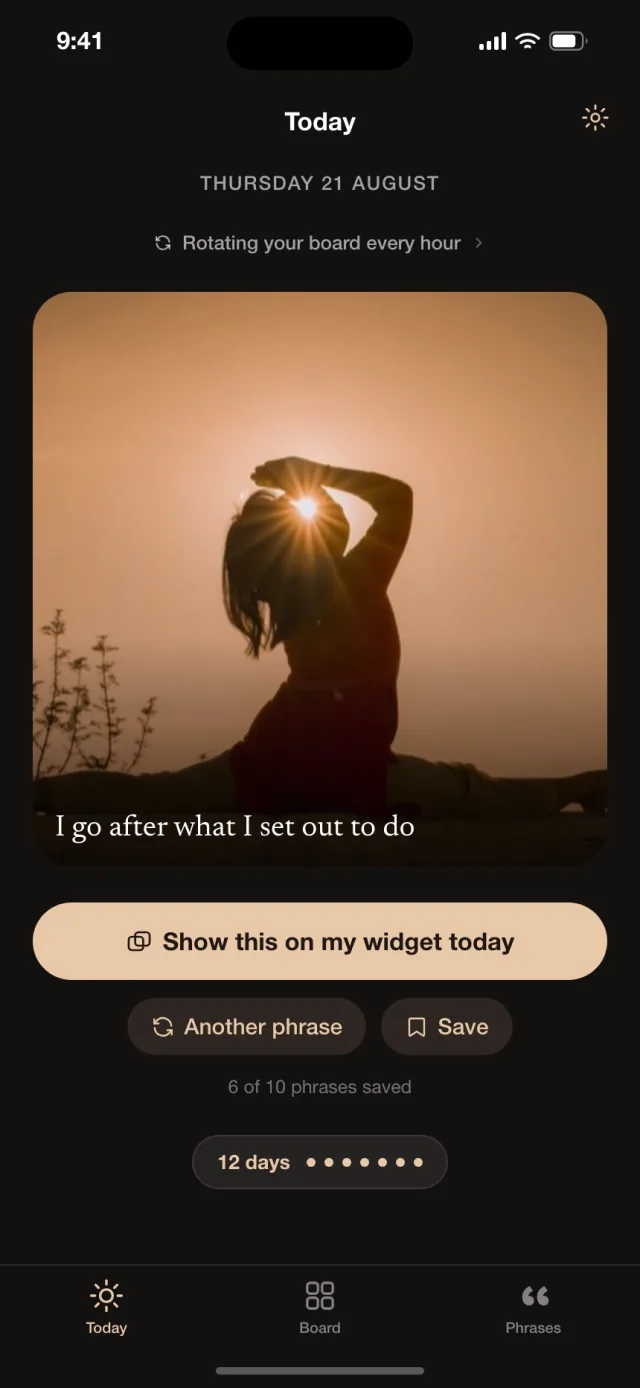
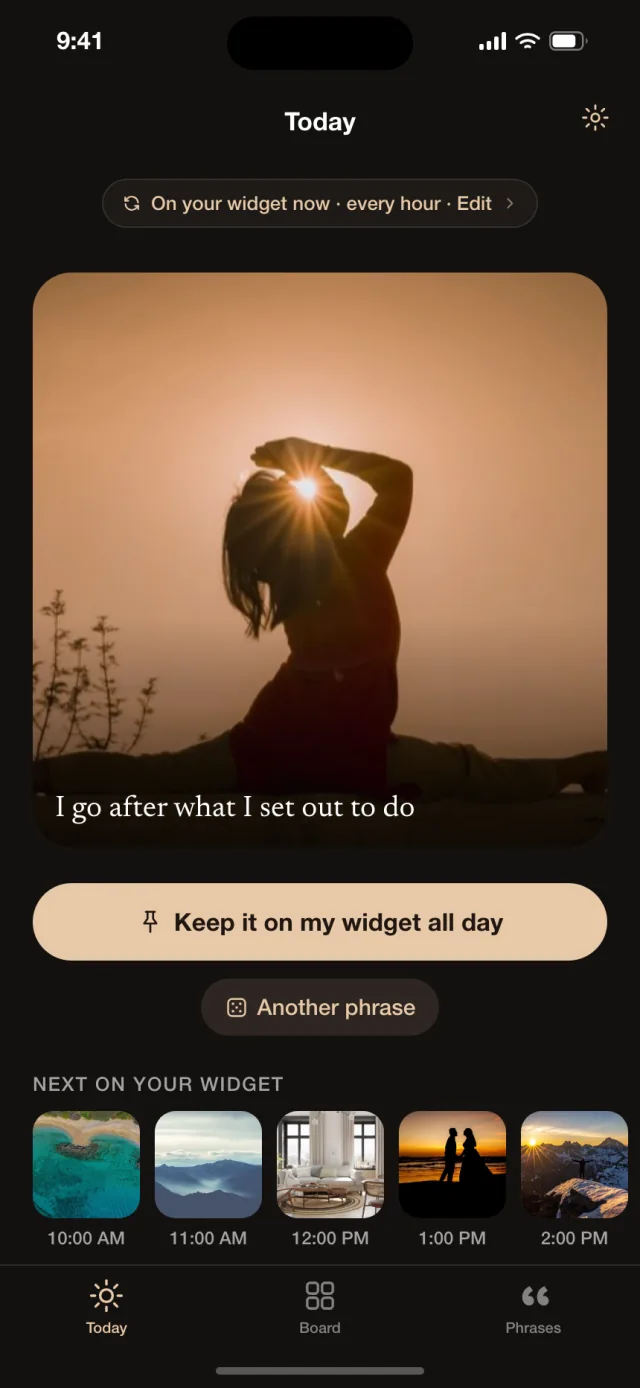
Publish the website from ManifestBoard 7a7a50c

diff --git a/index.html b/index.html
@@ -80,7 +80,7 @@
             <div class="widget widget-cycle"><div class="widget-layer"><img class="widget-photo" src="./img/area_calm_1-800.webp" srcset="./img/area_calm_1-480.webp 480w, ./img/area_calm_1-800.webp 800w, ./img/area_calm_1-1400.webp 1400w" sizes="(max-width: 760px) 160px, 260px" alt="" loading="lazy" decoding="async" ><p class="widget-text">Calm is my foundation</p></div><div class="widget-layer"><img class="widget-photo" src="./img/area_home_2-800.webp" srcset="./img/area_home_2-480.webp 480w, ./img/area_home_2-800.webp 800w, ./img/area_home_2-1400.webp 1400w" sizes="(max-width: 760px) 160px, 260px" alt="" loading="lazy" decoding="async" ><p class="widget-text">I fill this place with light</p></div><div class="widget-layer"><img class="widget-photo" src="./img/area_travel_3-800.webp" srcset="./img/area_travel_3-480.webp 480w, ./img/area_travel_3-800.webp 800w, ./img/area_travel_3-1400.webp 1400w" sizes="(max-width: 760px) 160px, 260px" alt="" loading="lazy" decoding="async" ><p class="widget-text">There is always another horizon</p></div></div>
             <div class="phone-apps"><span class="app app-mira"></span><span class="app"></span><span class="app"></span><span class="app"></span><span class="app"></span><span class="app"></span><span class="app"></span><span class="app"></span></div>
           </div>
-          <img class="how-shot" data-shot="today" src="./img/screens/today.webp" alt="Mira’s Today screen showing the phrase of the day" loading="lazy" decoding="async">
+          <img class="how-shot" data-shot="today" src="./img/screens/today.webp" alt="Mira’s Today screen showing what is on the widget now and what comes next" loading="lazy" decoding="async">
         </div>
       </div>
     </div>
@@ -89,7 +89,7 @@
       <article class="how-step" data-step="goals"><h3>Pick what you’re calling in.</h3><p>Love, travel, calm, home — choose the parts of life you want in front of you, and your board fills with them.</p></article>
       <article class="how-step" data-step="board"><h3>Three photos and you’re done.</h3><p>Start with ours and swap in your own whenever you like, each with a few words that belong to it.</p></article>
       <article class="how-step" data-step="widget"><h3>Then it rotates on its own.</h3><p>On your Home Screen and your Lock Screen, every hour or every few. You don’t open anything. It’s just there when you pick up your phone.</p></article>
-      <article class="how-step" data-step="today"><h3>A new phrase every morning.</h3><p>Take the one that fits today, pin it to your widget until midnight, or ask for another.</p></article>
+      <article class="how-step" data-step="today"><h3>Hold the one that fits today.</h3><p>Open Mira to see what’s on your widget and what comes next. Keep one up until midnight, or give it new words.</p></article>
     </div>
   </div>
 </section><section class="section themes" id="themes" aria-labelledby="themes-title">
